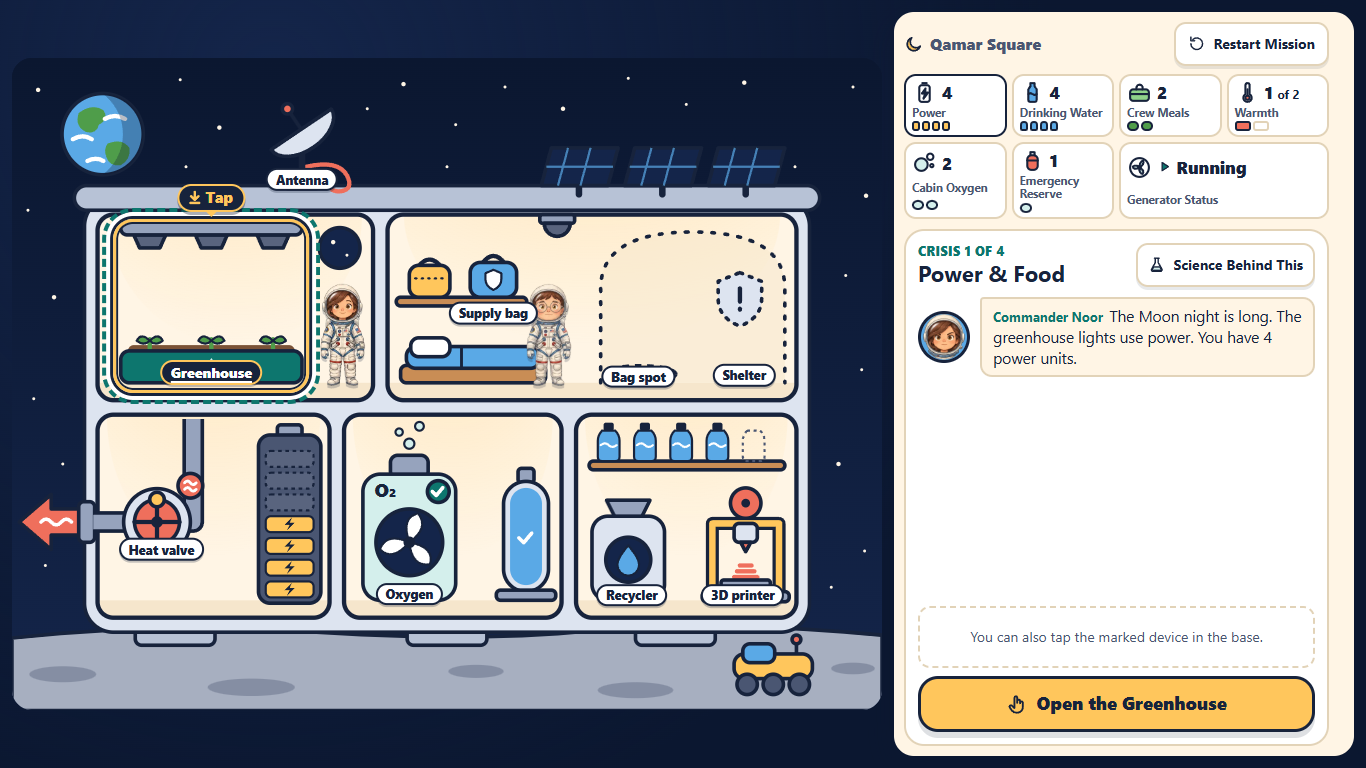
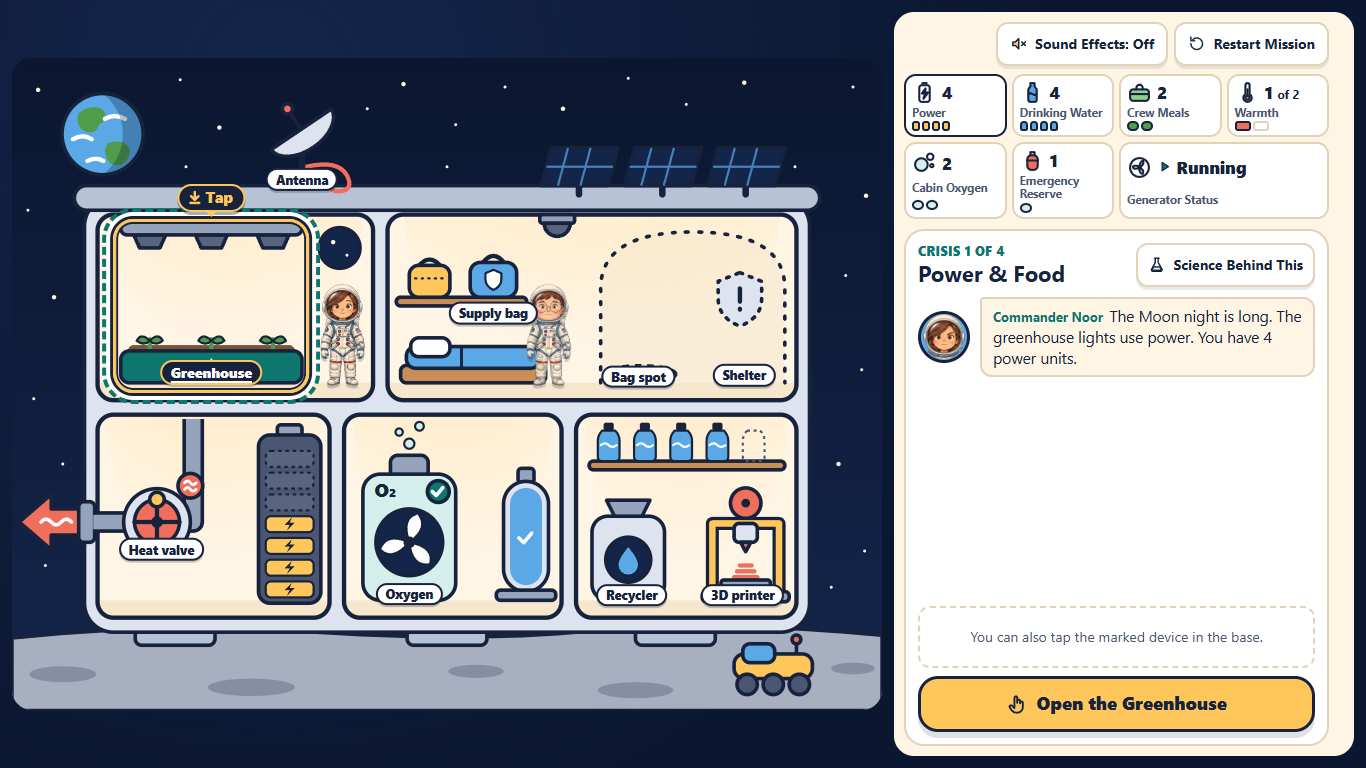
Record Notebook and sound checks and new phone checks

Changed region(s): [[0.6764, 0.0312, 0.8609, 0.0938]]

diff --git a/docs/BUILD_STATUS.md b/docs/BUILD_STATUS.md
@@ -1,9 +1,34 @@
 # Qamar Square — Build status
 
 **Updated:** 14 November 2026 (Africa/Cairo).
-**Milestone:** UI fit, active-device marker, icon set and motion pass complete and verified in this environment. Physical-phone checks remain Ahmed's (see `docs/MANUAL_CHECKS.md`).
-**Latest working revision:** see the "UI pass (14 Nov)" section below for commits `1590f9c`, `7d45ff1`, `85e9fb2` and the status commit after them. All commits are local; nothing was pushed.
+**Milestone:** Notebook experiment (Test the Membrane) and muted-by-default sound effects added on top of the UI pass, verified in this environment. Physical-phone checks remain Ahmed's (see `docs/MANUAL_CHECKS.md`).
+**Latest working revision:** `9bb1e42` (sound) on top of `ab3d252` (Notebook), plus the status commit after them. Earlier UI pass: `1590f9c`, `7d45ff1`, `85e9fb2`, `105cf54`. All commits are local; nothing was pushed.
 **Integration history:** the scene, scene CSS, ten crew WebPs, crop script and scene preview were committed in `8396e18`; integration in `e51c098`; favicon and reduced-motion record in `8b4fa53`; phone checklist in `3050d01`. No earlier work was discarded.
+
+## Notebook and sound (14 Nov)
+
+**Before this batch:** Water & Waste had an **Open Notebook** button that opened a text-only dialog with the Khumalo et al. link. A `still` field was declared but never rendered; there was no interaction. There was no audio.
+
+| Commit | What changed |
+|---|---|
+| `ab3d252` | **Test the Membrane** (`src/ui/membrane.js`): inside the Notebook, the player presses **Start the Test**, sees vapor dots cross the membrane's tiny holes and drops form on the cool side, then **Collect the Test Sample** into a cup labelled **TEST SAMPLE**. Three numbered steps, a live status line, a simple SVG and text (no video needed). Framed as a *lab research example* of membrane distillation, links the Khumalo et al. (2019) study, says it is not drinking water and not to scale. Its own state, reset on open and close; it cannot reach mission state. The ISS 70%/85% comparison stays in **Compare ISS Recovery**. Also adds `src/ui/sound.js` and 4 unit tests (31 total). |
+| `9bb1e42` | **Sound effects**: synthesized with Web Audio, no files, no music, melodies or loops. UI click, heat-valve ratchet, water drop (one per repair turn, and condensation in the Notebook), antenna relay on Send. Starts muted; **Sound Effects: Off / On** button (`aria-pressed`) in the tray header (under the panel on phones; at the bottom of start, packing and ending). A sound plays only from an action that changed the game, once, with a 90 ms per-sound throttle; re-renders play nothing. No Web Audio → label reads "Sound Effects: not available" and the game is unchanged. **Fix found during audio testing:** a fast triple click on Confirm also pressed Continue in the same place; the main tray button now ignores a second activation within 300 ms. |
+
+### Checks actually run (production preview, headless Chrome via CDP — emulated)
+
+| Check | Result |
+|---|---|
+| `npm test` | **31/31 pass** (adds Notebook citation and framing, stage logic incl. repeated Start, no mission-state change after a full experiment, sound muted/no-throw without Web Audio) |
+| `npm run build` | Pass |
+| Notebook, 1366×768 and 375×812, keyboard Enter | ready → running (second Enter ignored) → done (focus moves to Collect) → collected; status and badge text correct; DOI link present; Esc closes, focus returns to **Open Notebook**; **drinking water 2 before and after** |
+| Notebook, 375×812 reduced motion | Start shows the condensed result at once; collect and close work; water unchanged |
+| Audio, 1366×768 and 375×812, real mouse events | Starts **Off**; muted clicks log nothing; turning On (user gesture) plays one click; Confirm clicked **3× fast → one `valve` sound, one warmth change**; Science open/close → no sound; standard repair → `drop`, `drop`; Send Now → `relay`; Off again → silent; story ends on the final line |
+| No Web Audio (AudioContext removed before load), keyboard only | Toggle reads "Sound Effects: not available"; full story to **"Signal sent. Waiting for confirmation."** |
+| Keyboard-only story | Ends on the final line; Shift+Tab ×4 reaches the marked device, Enter opens its choices |
+| Touch (emulated), Water Training + ISS | Kit 3 → 2 in 1 turn; standard 3 → 1 in 2 turns; ISS 14/20 and 17/20 with NASA source; water unchanged |
+| Fit journey | 1366×768 and 1920×1080 fit at every step; 375×812 panel visible at every step except Water & Waste preview (7 px) |
+
+Audio checks confirm which effects started (the page's `__qsSfx` log); headless Chrome has no speakers, so **how they sound was not heard** — Ahmed's phone check below.
 
 ## UI pass (14 Nov) — fit, marker, icons, motion
 

diff --git a/docs/MANUAL_CHECKS.md b/docs/MANUAL_CHECKS.md
@@ -29,6 +29,8 @@ Get-NetIPConfiguration | Where-Object { $_.IPv4DefaultGateway } | Select-Object 
 | ISS comparison and close | From either training result, note the drinking-water count. Open Compare ISS Recovery. Tap historical 70%, then historical 85%. Swipe upward until Sources and Close are visible; tap Close. | Exactly 20 illustrative drops; 14 or 17 marked recovered and routed to Further Treatment. Historical labels and NASA links are visible. Close returns to the same repair result with the same drinking-water count. |
 | Fit and marked device (new, 14 Nov) | Portrait: launch without purchases. Before opening, find the device with the yellow-and-dark ring, the dark **Tap** pointer and the dark name label. Tap that device itself (not the tray button). Choose a card. | The crew member who is speaking stands beside the device, not on it. Tapping the device opens the same two choices as the tray button. While choosing, the resource counters, both choices, the preview and **Confirm Choice** are on screen together without scrolling (Water & Waste may need a few pixels). Restart Mission sits under the panel, one short scroll down. Finished devices show a teal label with a check. |
 | Icons and motion (new, 14 Nov) | Play one decision with normal motion. Confirm Adjust Heat Control Valve. | No emoji anywhere; icons are simple line drawings in the game colours with their text labels. The valve wheel turns, the heat arrow shrinks, a **Warmth 1 → 2** note appears above the valve, the speaker hops; the result text and Continue are usable straight away. |
+| Notebook: Test the Membrane (new) | In Water Training, finish a repair, then tap **Open Notebook**. Tap **Start the Test**, watch, then **Collect the Test Sample**. Close the Notebook. | Vapor dots cross the membrane, drops fill a cup labelled TEST SAMPLE, a badge says it is not drinking water. After closing, the drinking-water counter is the same as before. |
+| Sound effects (new) | Phone volume up, silent switch off. Note there is no sound at first. Tap **Sound Effects: Off** so it reads **On**. Adjust the heat valve, do a standard repair, run the Notebook test, send the signal. Then tap it back to **Off**. | Sound starts only after you turn it on. You hear a soft click, a short valve ratchet, one drop per repair turn (and drops in the Notebook), and a relay click on Send. No music. Each sound plays once per action, even if you double-tap. Off makes it silent again. Everything still makes sense with sound off. |
 | Phone Reduce Motion | In the phone's system accessibility settings, enable Reduce Motion/remove animations. Reload the game and repeat the story route or both training repairs. Check the marked-device rings and Tap pointers, toy taps, bag placement, generator, sunrise and sent signal. Restore your usual setting afterward. | No ongoing wiggle/spin/bobbing or travelling signal. State changes and feedback still appear. Repair result is available without timed progression while reporting the same 1/2 turn costs. All taps, retry, comparison and final waiting line still work. |
 
 If any check fails, note the exact screen/action, expected result, observed result and device/browser. Screenshots or a short recording will help reproduce it. These checks do not require video assets, an account or deployment.
